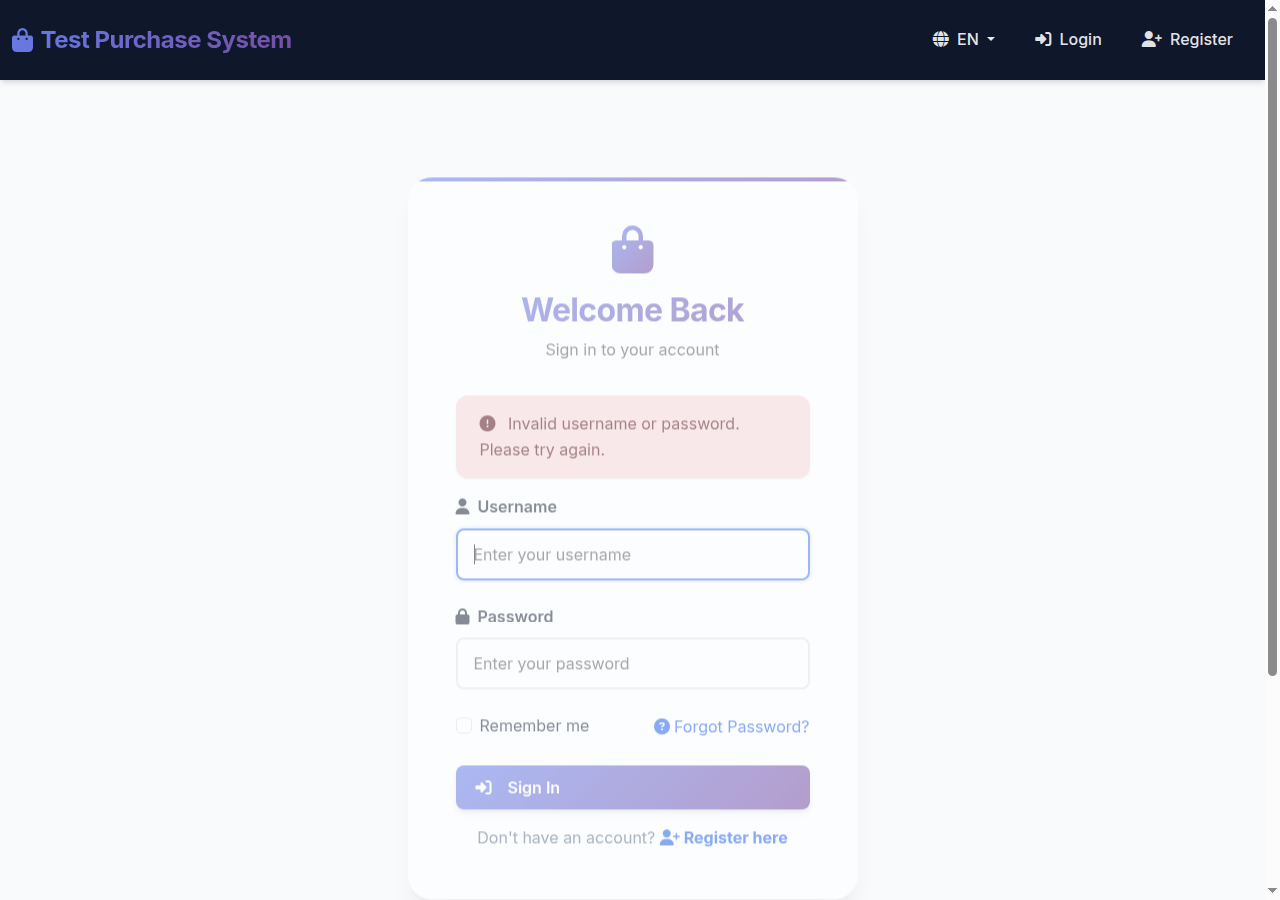
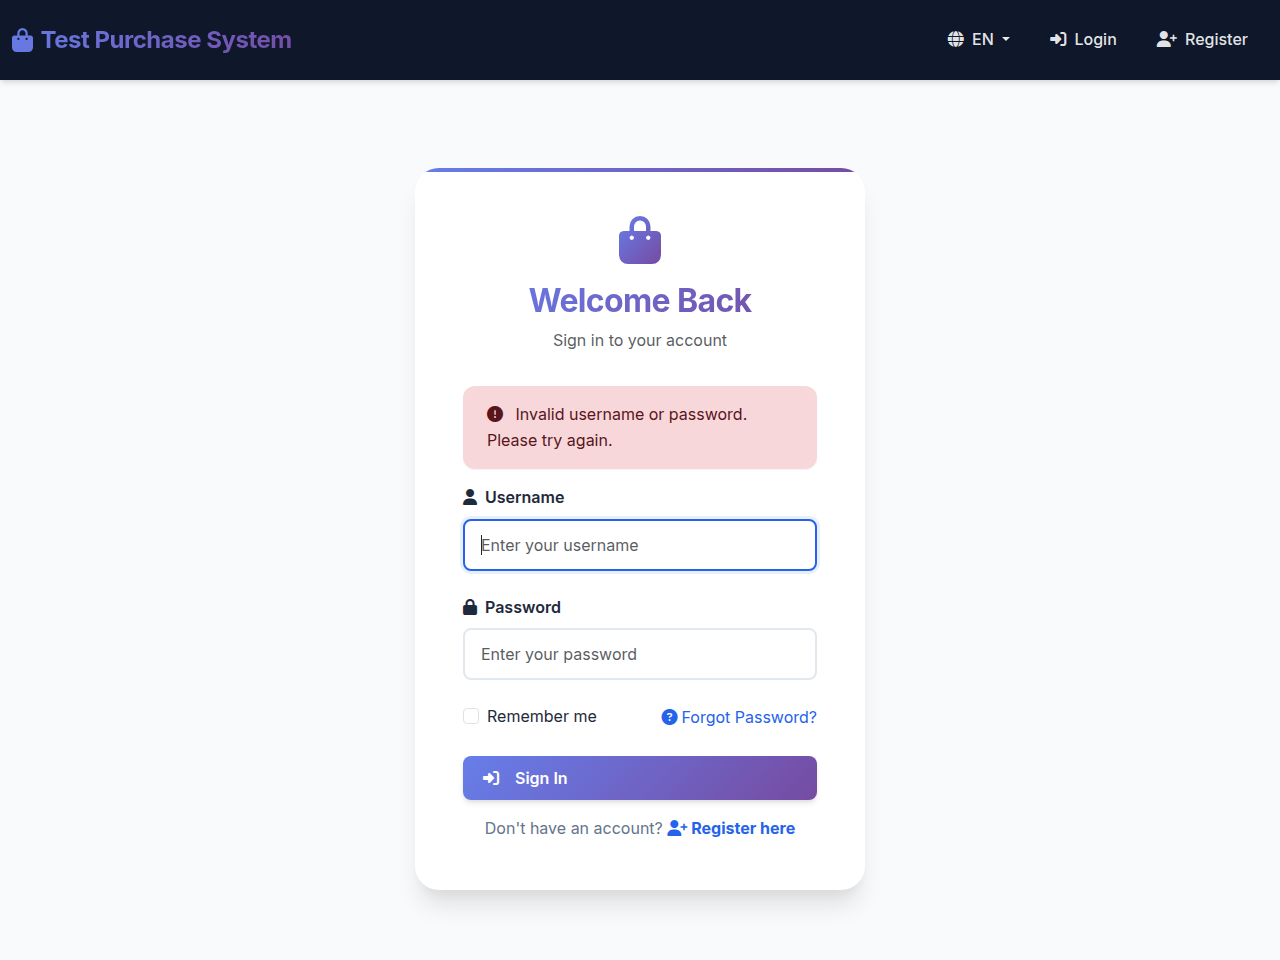
Fix login rate limit upsert race with atomic JDBC ON DUPLICATE KEY UPDATE
Replace ineffective JPA save/catch retry with MySQL upsert (H2-compatible
CASE form in tests). Add parallel increment concurrency test and refresh
login error screenshot after animations complete.

Changed region(s): [[0.3438, 0.1556, 0.6562, 0.9644], [0.0, 0.0, 1.0, 0.7467]]

diff --git a/src/test/java/app/security/LoginRateLimitConcurrencyTest.java b/src/test/java/app/security/LoginRateLimitConcurrencyTest.java
@@ -1,0 +1,84 @@
+package app.security;
+
+import app.TestPurchaseApplication;
+import app.repository.LoginRateLimitRepository;
+import app.repository.LoginRateLimitUpsert;
+import app.security.LoginRateLimitKeys;
+import org.junit.jupiter.api.BeforeEach;
+import org.junit.jupiter.api.Test;
+import org.springframework.beans.factory.annotation.Autowired;
+import org.springframework.boot.test.context.SpringBootTest;
+import org.springframework.test.context.ActiveProfiles;
+import org.springframework.transaction.support.TransactionTemplate;
+
+import java.time.LocalDateTime;
+import java.util.concurrent.CountDownLatch;
+import java.util.concurrent.ExecutorService;
+import java.util.concurrent.Executors;
+import java.util.concurrent.TimeUnit;
+import java.util.concurrent.atomic.AtomicReference;
+
+import static org.junit.jupiter.api.Assertions.assertEquals;
+import static org.junit.jupiter.api.Assertions.assertNull;
+
+@SpringBootTest(classes = TestPurchaseApplication.class)
+@ActiveProfiles("test")
+class LoginRateLimitConcurrencyTest {
+
+    @org.springframework.boot.test.mock.mockito.MockBean
+    private app.client.PricingClient pricingClient;
+
+    @Autowired
+    private LoginRateLimitUpsert loginRateLimitUpsert;
+
+    @Autowired
+    private LoginRateLimitRepository loginRateLimitRepository;
+
+    @Autowired
+    private TransactionTemplate transactionTemplate;
+
+    @BeforeEach
+    void clearBuckets() {
+        transactionTemplate.executeWithoutResult(status -> loginRateLimitRepository.deleteAll());
+    }
+
+    @Test
+    void parallelFirstFailuresOnSameIpKeyIncrementWithoutError() throws Exception {
+        String ip = "198.51.100.77";
+        String storageKey = LoginRateLimitKeys.storageKey("ip:", ip);
+        LocalDateTime now = LocalDateTime.now();
+        LocalDateTime windowNotBefore = now.minusSeconds(3600);
+        CountDownLatch ready = new CountDownLatch(2);
+        CountDownLatch start = new CountDownLatch(1);
+        AtomicReference<Throwable> failure = new AtomicReference<>();
+
+        ExecutorService pool = Executors.newFixedThreadPool(2);
+        try {
+            for (int i = 0; i < 2; i++) {
+                pool.submit(() -> {
+                    ready.countDown();
+                    try {
+                        start.await();
+                        loginRateLimitUpsert.upsertIncrement(
+                                java.util.UUID.randomUUID(), storageKey, now, windowNotBefore);
+                    } catch (Throwable t) {
+                        failure.compareAndSet(null, t);
+                    }
+                });
+            }
+
+            ready.await(5, TimeUnit.SECONDS);
+            start.countDown();
+            pool.shutdown();
+            assert pool.awaitTermination(30, TimeUnit.SECONDS);
+        } finally {
+            pool.shutdownNow();
+        }
+
+        assertNull(failure.get(), () -> "Unexpected failure: " + failure.get());
+
+        var bucket = transactionTemplate.execute(
+                status -> loginRateLimitRepository.findByRateKey(storageKey).orElseThrow());
+        assertEquals(2, bucket.getAttemptCount());
+    }
+}

diff --git a/src/main/java/app/repository/LoginRateLimitUpsert.java b/src/main/java/app/repository/LoginRateLimitUpsert.java
@@ -1,0 +1,75 @@
+package app.repository;
+
+import lombok.RequiredArgsConstructor;
+import org.springframework.jdbc.core.JdbcTemplate;
+import org.springframework.stereotype.Repository;
+
+import javax.sql.DataSource;
+import java.sql.Connection;
+import java.sql.SQLException;
+import java.sql.Timestamp;
+import java.time.LocalDateTime;
+import java.util.UUID;
+
+@Repository
+@RequiredArgsConstructor
+public class LoginRateLimitUpsert {
+
+    private final JdbcTemplate jdbcTemplate;
+    private final DataSource dataSource;
+
+    private volatile String upsertSql;
+
+    public void upsertIncrement(UUID id, String rateKey, LocalDateTime now, LocalDateTime windowNotBefore) {
+        jdbcTemplate.update(
+                resolveUpsertSql(),
+                ps -> {
+                    ps.setObject(1, id);
+                    ps.setString(2, rateKey);
+                    ps.setTimestamp(3, Timestamp.valueOf(now));
+                    ps.setTimestamp(4, Timestamp.valueOf(windowNotBefore));
+                    ps.setTimestamp(5, Timestamp.valueOf(windowNotBefore));
+                    ps.setTimestamp(6, Timestamp.valueOf(now));
+                });
+    }
+
+    private String resolveUpsertSql() {
+        if (upsertSql != null) {
+            return upsertSql;
+        }
+        synchronized (this) {
+            if (upsertSql != null) {
+                return upsertSql;
+            }
+            upsertSql = buildUpsertSql(isH2());
+            return upsertSql;
+        }
+    }
+
+    private boolean isH2() {
+        try (Connection connection = dataSource.getConnection()) {
+            return connection.getMetaData().getDatabaseProductName().contains("H2");
+        } catch (SQLException e) {
+            throw new IllegalStateException("Could not detect database product", e);
+        }
+    }
+
+    private static String buildUpsertSql(boolean h2QuotedIdentifiers) {
+        if (h2QuotedIdentifiers) {
+            return """
+                    INSERT INTO "login_rate_limit" ("id", "rate_key", "attempt_count", "window_start")
+                    VALUES (?, ?, 1, ?)
+                    ON DUPLICATE KEY UPDATE
+                      "attempt_count" = CASE WHEN "window_start" >= ? THEN "attempt_count" + 1 ELSE 1 END,
+                      "window_start" = CASE WHEN "window_start" >= ? THEN "window_start" ELSE ? END
+                    """;
+        }
+        return """
+                INSERT INTO login_rate_limit (id, rate_key, attempt_count, window_start)
+                VALUES (?, ?, 1, ?)
+                ON DUPLICATE KEY UPDATE
+                  attempt_count = IF(window_start >= ?, attempt_count + 1, 1),
+                  window_start = IF(window_start >= ?, window_start, ?)
+                """;
+    }
+}

diff --git a/src/main/java/app/service/impl/LoginSecurityServiceImpl.java b/src/main/java/app/service/impl/LoginSecurityServiceImpl.java
@@ -4,13 +4,13 @@ import app.config.LoginSecurityProperties;
 import app.model.entity.LoginRateLimit;
 import app.model.entity.User;
 import app.repository.LoginRateLimitRepository;
+import app.repository.LoginRateLimitUpsert;
 import app.repository.UserRepository;
 import app.security.LoginRateLimitKeys;
 import app.service.LoginSecurityService;
 import jakarta.persistence.EntityNotFoundException;
 import lombok.RequiredArgsConstructor;
 import lombok.extern.slf4j.Slf4j;
-import org.springframework.dao.DataIntegrityViolationException;
 import org.springframework.stereotype.Service;
 import org.springframework.transaction.annotation.Transactional;
 
@@ -28,6 +28,7 @@ public class LoginSecurityServiceImpl implements LoginSecurityService {
 
     private final LoginSecurityProperties properties;
     private final LoginRateLimitRepository rateLimitRepository;
+    private final LoginRateLimitUpsert loginRateLimitUpsert;
     private final UserRepository userRepository;
 
     @Override
@@ -143,29 +144,7 @@ public class LoginSecurityServiceImpl implements LoginSecurityService {
         String rateKey = LoginRateLimitKeys.storageKey(prefix, normalizedValue);
         LocalDateTime now = LocalDateTime.now();
         LocalDateTime windowNotBefore = now.minusSeconds(properties.rateLimit().windowSeconds());
-
-        int updated = rateLimitRepository.incrementAttemptInActiveWindow(rateKey, windowNotBefore);
-        if (updated > 0) {
-            return;
-        }
-
-        updated = rateLimitRepository.resetWindowAndSetAttempts(rateKey, windowNotBefore, now, 1);
-        if (updated > 0) {
-            return;
-        }
-
-        try {
-            rateLimitRepository.save(LoginRateLimit.builder()
-                    .rateKey(rateKey)
-                    .attemptCount(1)
-                    .windowStart(now)
-                    .build());
-        } catch (DataIntegrityViolationException duplicateInsert) {
-            updated = rateLimitRepository.incrementAttemptInActiveWindow(rateKey, windowNotBefore);
-            if (updated == 0) {
-                rateLimitRepository.resetWindowAndSetAttempts(rateKey, windowNotBefore, now, 1);
-            }
-        }
+        loginRateLimitUpsert.upsertIncrement(UUID.randomUUID(), rateKey, now, windowNotBefore);
     }
 
     private boolean windowExpired(LoginRateLimit entry) {

diff --git a/src/main/java/app/repository/LoginRateLimitRepository.java b/src/main/java/app/repository/LoginRateLimitRepository.java
@@ -15,30 +15,6 @@ public interface LoginRateLimitRepository extends JpaRepository<LoginRateLimit, 
     Optional<LoginRateLimit> findByRateKey(String rateKey);
 
     @Modifying(clearAutomatically = true, flushAutomatically = true)
-    @Query("""
-            UPDATE LoginRateLimit r
-            SET r.attemptCount = r.attemptCount + 1
-            WHERE r.rateKey = :rateKey
-              AND r.windowStart >= :windowNotBefore
-            """)
-    int incrementAttemptInActiveWindow(
-            @Param("rateKey") String rateKey,
-            @Param("windowNotBefore") LocalDateTime windowNotBefore);
-
-    @Modifying(clearAutomatically = true, flushAutomatically = true)
-    @Query("""
-            UPDATE LoginRateLimit r
-            SET r.attemptCount = :count, r.windowStart = :now
-            WHERE r.rateKey = :rateKey
-              AND r.windowStart < :windowNotBefore
-            """)
-    int resetWindowAndSetAttempts(
-            @Param("rateKey") String rateKey,
-            @Param("windowNotBefore") LocalDateTime windowNotBefore,
-            @Param("now") LocalDateTime now,
-            @Param("count") int count);
-
-    @Modifying(clearAutomatically = true, flushAutomatically = true)
     @Query("DELETE FROM LoginRateLimit r WHERE r.windowStart < :cutoff")
     int deleteExpiredWindows(@Param("cutoff") LocalDateTime cutoff);
 }
